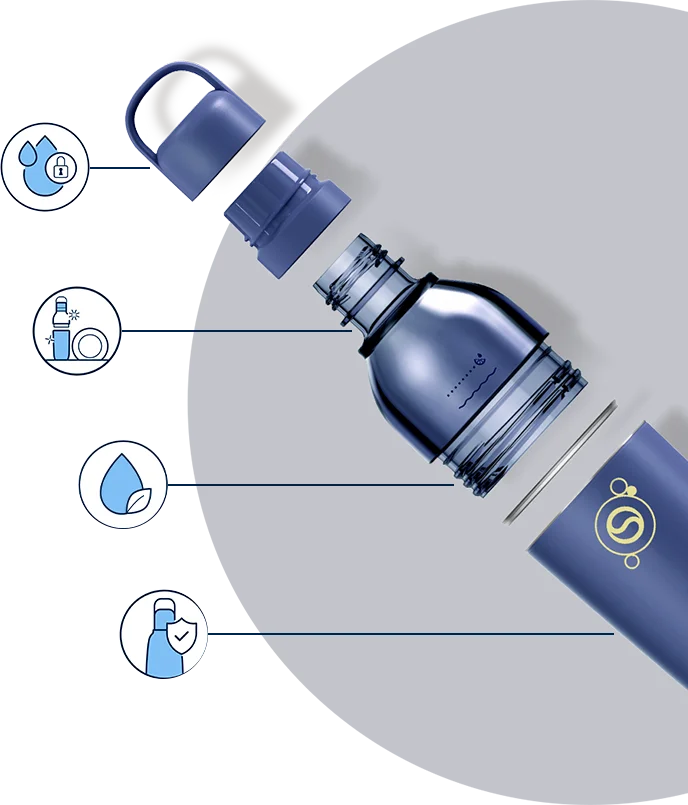
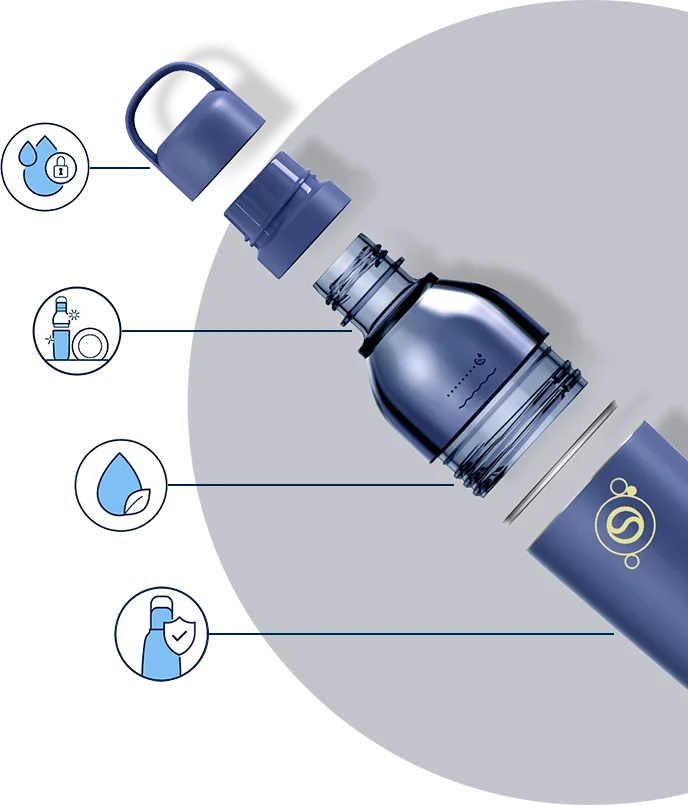
feat: modify styles and replace image

Changed region(s): [[0.1526, 0.7143, 0.3052, 0.8696], [0.0916, 0.528, 0.2442, 0.6832]]

diff --git a/index.html b/index.html
@@ -19,7 +19,7 @@
 							710 ml
 						</p>
 						<p class="es-kv__title-circle es-kv__title-circle--mobile">idealnie schłodzone
-							napoje nawet do <span>6H</span>
+							napoje nawet do <span>6h</span>
 						</p>
 					</div>
 				</div>
@@ -28,7 +28,7 @@
 
 			<div class="es-kv__packshot">
 				<p class="es-kv__title-circle es-kv__title-circle--desktop">idealnie schłodzone
-					napoje nawet do <span>6H</span>
+					napoje nawet do <span>6h</span>
 				</p>
 				<img src="//f00.esfr.pl/si_upload/blank_gif/blank.gif"
 						 class="es-kv__packshot__img es-kv__packshot__img--desktop lazy"

diff --git a/css/style.css b/css/style.css
@@ -1,1 +1,1 @@
-#es-rc #es-rc-content,#es-rc #es-rc-content *{font-family:HurmeGeometricSans3,sans-serif!important}@font-face{font-family:HurmeGeometricSans3;src:local("HurmeGeometricSans3"),url("../fonts/HurmeGeometricSans3-Bold.woff") format("woff");font-weight:700}@font-face{font-family:HurmeGeometricSans3;src:local("HurmeGeometricSans3"),url("../fonts/HurmeGeometricSans3-Regular.woff") format("woff");font-weight:400}@font-face{font-family:HurmeGeometricSans3;src:local("HurmeGeometricSans3"),url("../fonts/HurmeGeometricSans3-Black.woff") format("woff");font-weight:900}@font-face{font-family:HurmeGeometricSans3;src:local("HurmeGeometricSans3"),url("../fonts/HurmeGeometricSans3-Light.woff2") format("woff2");font-weight:300}#es-rc #es-rc-content{font-weight:400;font-size:20px;line-height:1.2;color:#012349;background-color:#faf8f8;max-width:920px;margin:auto;container:es-rc-content/inline-size;overflow:hidden;font-variant-ligatures:none}#es-rc #es-rc-content ::-moz-selection{background-color:#012349;color:#faf8f8}#es-rc #es-rc-content ::selection{background-color:#012349;color:#faf8f8}#es-rc #es-rc-content *{box-sizing:border-box}#es-rc #es-rc-content p{margin:0}#es-rc #es-rc-content img{width:100%;display:block;margin:0 auto}#es-rc #es-rc-content button{display:block}#es-rc #es-rc-content .es-kv__top,#es-rc #es-rc-content .es-section{padding:32px}#es-rc #es-rc-content .es-tm{display:inline-block;font-size:15px;vertical-align:top;margin-top:5px;top:revert;line-height:revert}#es-rc #es-rc-content .es-tm-headline{display:inline-block;font-size:18px;vertical-align:top;margin-top:5px}@container es-rc-content (min-width:800px){#es-rc #es-rc-content .es-tm-headline{font-size:32px}}#es-rc #es-rc-content .es-section-title{font-weight:700;font-size:32px;text-align:center;margin-block:16px;text-transform:uppercase}#es-rc #es-rc-content .es-footer .es-section-title,#es-rc #es-rc-content .es-footer__hashtag--last{text-transform:none}#es-rc #es-rc-content .es-desktop,#es-rc #es-rc-content .es-kv__packshot{position:relative}#es-rc #es-rc-content .es-kv{display:flex;flex-direction:column;gap:24px;background-color:#faf8f8;padding:0;overflow:hidden;position:relative}#es-rc #es-rc-content .es-kv__logo{max-width:300px;margin-bottom:10px}#es-rc #es-rc-content .es-kv__title{text-align:center}#es-rc #es-rc-content .es-kv__title--headline{margin-bottom:10px;margin-top:25px;font-weight:700;font-size:30px}#es-rc #es-rc-content .es-kv__title--headline span{display:block;color:#f6c641}#es-rc #es-rc-content .es-kv__title--bottomline{margin-bottom:25px;font-weight:700;font-size:15px}#es-rc #es-rc-content .es-kv__title-circle{display:flex;justify-content:center;align-items:center;flex-direction:column;padding:20px;margin:0 auto;color:#012349;background:#f6c641;font-size:15px;font-weight:500;border-radius:50%;width:180px;height:180px;text-align:center}#es-rc #es-rc-content .es-kv__packshot__img--desktop,#es-rc #es-rc-content .es-kv__title-circle--desktop{display:none}#es-rc #es-rc-content .es-kv__title-circle span{display:block;font-weight:700;font-size:38px}#es-rc #es-rc-content .es-kv__description-title{margin-bottom:15px;font-weight:700;text-align:center;font-size:25px}#es-rc #es-rc-content .es-kv__packshot__img{max-width:400px}#es-rc #es-rc-content .es-kv__description{margin-block-start:30px;margin-block-end:30px}#es-rc #es-rc-content .es-kv__description__text{display:block;max-width:95%;margin:0 auto;font-size:15px;text-align:center}@container es-rc-content (min-width:440px){#es-rc #es-rc-content .es-kv__title--bottomline{font-size:18px}}@container es-rc-content (min-width:550px){#es-rc #es-rc-content .es-kv__title--headline{font-size:45px}#es-rc #es-rc-content .es-kv__title--bottomline{font-size:18px}#es-rc #es-rc-content .es-kv__description__text{font-size:15px;text-align:center}}@container es-rc-content (min-width:768px){#es-rc #es-rc-content .es-kv__top{padding-bottom:70px}#es-rc #es-rc-content .es-kv__packshot{position:relative}#es-rc #es-rc-content .es-kv__packshot__img{max-height:600px}}@container es-rc-content (min-width:880px){#es-rc #es-rc-content .es-kv__logo{max-width:250px;margin-bottom:16px}#es-rc #es-rc-content .es-kv__title--headline{margin-bottom:10px}#es-rc #es-rc-content .es-kv__title--bottomline{font-size:18px}#es-rc #es-rc-content .es-kv__packshot{margin-right:0}#es-rc #es-rc-content .es-kv__packshot__img{max-height:650px}#es-rc #es-rc-content .es-kv__description__text{font-size:15px;text-align:center}}#es-rc #es-rc-content .es-design{padding:30px 15px 0;background:#faf8f8;position:relative;z-index:0}#es-rc #es-rc-content .es-design__title{margin-bottom:15px;font-size:25px;font-weight:700;text-align:center}#es-rc #es-rc-content .es-design__subtitle{display:block;margin:0 auto 25px;text-align:center;font-size:15px}#es-rc #es-rc-content .es-design__container{margin-top:-1px;background:#faf8f8;display:flex;flex-direction:column;align-items:center;gap:30px}#es-rc #es-rc-content .es-design__container--desktop{display:none}#es-rc #es-rc-content .es-design__single{display:flex;flex-direction:column;align-items:center;justify-content:flex-start;gap:10px;max-width:300px}#es-rc #es-rc-content .es-design__single-img{max-width:125px;width:auto}#es-rc #es-rc-content .es-design__single-subtitle{font-weight:700;text-align:center;font-size:15px}#es-rc #es-rc-content .es-comfort__left,#es-rc #es-rc-content .es-design__description-img,#es-rc #es-rc-content .es-easy-mix__img{margin-bottom:25px}#es-rc #es-rc-content .es-design__description-img--desktop{display:none}#es-rc #es-rc-content .es-design__new{padding-top:50px}#es-rc #es-rc-content .es-design__new-title,#es-rc #es-rc-content .es-eco__bottom-title{margin-bottom:20px;font-size:20px;font-weight:700;text-align:center}#es-rc #es-rc-content .es-design__new-description{margin-bottom:25px;font-size:15px;text-align:center}#es-rc #es-rc-content .es-slider .swiper-button-next:after,#es-rc #es-rc-content .es-slider .swiper-button-prev:after,#es-rc #es-rc-content .es-slider .swiper-rtl .swiper-button-next:after{content:""}#es-rc #es-rc-content .es-slider .swiper-button-next,#es-rc #es-rc-content .es-slider .swiper-button-prev{width:unset;height:unset;position:static;justify-content:unset;display:unset}#es-rc #es-rc-content .es-slider{margin-block:32px;margin-bottom:0;margin-top:0}#es-rc #es-rc-content .es-slider .es-swiper{position:relative;width:100%}#es-rc #es-rc-content .es-slider .es-swiper-wrapper{display:flex;transition:transform .5s}#es-rc #es-rc-content .es-slider__slide{flex:0 0 100%;box-sizing:border-box;display:flex;flex-direction:column;align-items:center;justify-content:center;gap:24px;padding:32px}#es-rc #es-rc-content .es-slider__slide--1{color:#012349;z-index:0}#es-rc #es-rc-content .es-steps{text-align:center;display:flex;flex-direction:column;gap:32px;background:linear-gradient(180deg,#faf8f8 35%,#[phone redacted]%)}#es-rc #es-rc-content .es-steps__title{font-weight:700;font-size:25px;text-align:center;color:#012349;background-color:#faf8f8}#es-rc #es-rc-content .es-steps__steps__item__text{font-weight:600;font-size:15px;text-align:center}#es-rc #es-rc-content .es-steps__steps__container ::-moz-selection{color:#012349}#es-rc #es-rc-content .es-steps__steps__container ::selection{color:#012349}#es-rc #es-rc-content .es-steps__steps__title{font-weight:900;font-size:32px}#es-rc #es-rc-content .es-steps__steps__wrapper{display:flex;flex-direction:column;gap:24px;align-items:center}#es-rc #es-rc-content .es-steps__steps__item{display:flex;flex-direction:column;gap:8px;max-width:200px}#es-rc #es-rc-content .es-steps__steps__item__image{margin-bottom:10px;max-width:220px}@container es-rc-content (min-width:660px){#es-rc #es-rc-content .es-section-title{font-size:48px}#es-rc #es-rc-content .es-desktop{display:block}#es-rc #es-rc-content .es-slider__slide{gap:48px;font-size:24px}#es-rc #es-rc-content .es-steps{background:linear-gradient(180deg,#faf8f8 50%,#[phone redacted]%)}#es-rc #es-rc-content .es-steps__steps__title{font-size:34px}#es-rc #es-rc-content .es-steps__steps__wrapper{margin-bottom:30px;flex-direction:row;align-items:start;justify-content:space-evenly;-moz-column-gap:40px;column-gap:40px}#es-rc #es-rc-content .es-steps__steps__item{max-width:150px}}#es-rc #es-rc-content .es-easy-mix{padding:0 15px}#es-rc #es-rc-content .es-easy-mix__title{margin-bottom:30px;font-size:20px;font-weight:700;text-align:center}#es-rc #es-rc-content .es-easy-mix__description{font-size:15px;text-align:left}#es-rc #es-rc-content .es-comfort,#es-rc #es-rc-content .es-eco{padding:30px 15px}#es-rc #es-rc-content .es-comfort__left-title{margin-bottom:10px;font-size:20px;font-weight:700;text-align:center}#es-rc #es-rc-content .es-comfort__left-subtitle{font-size:15px;text-align:center;margin-bottom:25px}#es-rc #es-rc-content .es-comfort__left-description{font-size:15px}#es-rc #es-rc-content .es-colors{color:#fff;background-color:#002349;position:relative;padding:30px}#es-rc #es-rc-content .es-colors__container{padding-top:25px;display:flex;justify-content:center;align-items:center;-moz-column-gap:20px;column-gap:20px;z-index:3;position:relative}#es-rc #es-rc-content .es-colors__title{margin-bottom:25px;font-size:25px;font-weight:700;text-align:center}#es-rc #es-rc-content .es-colors__subtitle,#es-rc #es-rc-content .es-eco__subtitle{font-size:15px;text-align:center}#es-rc #es-rc-content .es-colors__wrapper{display:none;background-color:#002349;border-radius:50%;width:125%;height:40%;bottom:-10%;left:-12%;right:0;z-index:2;position:absolute}#es-rc #es-rc-content .es-style__img{max-width:60%;margin-left:10px}#es-rc #es-rc-content .es-style__left{max-width:310px;margin:0 auto}#es-rc #es-rc-content .es-style__inner{max-width:350px;margin:0 auto 20px;position:relative}#es-rc #es-rc-content .es-style__wrapper{position:absolute;top:-20px;right:-106px}#es-rc #es-rc-content .es-style__img-title-group{position:relative}#es-rc #es-rc-content .es-style__title-img{margin-bottom:25px;max-width:30%}#es-rc #es-rc-content .es-style__img-title{position:absolute;top:55%;left:53%;transform:translate(-50%,-50%);color:#012349;font-size:14px;font-weight:700;text-align:center}#es-rc #es-rc-content .es-style__img-description{max-width:85%;margin:0 auto 25px;font-size:15px;text-align:center}#es-rc #es-rc-content .es-style__img-description span{margin-bottom:10px;display:block;font-weight:700;font-size:25px}#es-rc #es-rc-content .es-cross__container{display:flex;flex-direction:column;align-items:center;justify-content:center}#es-rc #es-rc-content .es-cross__single{padding:20px;display:flex;flex-direction:column;align-items:center;justify-content:center;gap:20px}#es-rc #es-rc-content .es-cross__single--1{color:#fff;background-color:#002349}#es-rc #es-rc-content .es-cross__single--2{background-color:#f6c641}#es-rc #es-rc-content .es-cross__single--3{color:#fff;background-color:#e25d5f}#es-rc #es-rc-content .es-cross__single-description--blue,#es-rc #es-rc-content .es-cross__single-title--blue{color:#002349}#es-rc #es-rc-content .es-cross__single-title{font-weight:700;font-size:15px;text-align:center}#es-rc #es-rc-content .es-cross__single-description{font-weight:400;font-size:15px;text-align:center}#es-rc #es-rc-content .es-cross__img{max-width:70%;margin-bottom:15px;width:auto}#es-rc #es-rc-content .es-footer{position:relative;overflow:hidden;padding:30px 15px;background-position:center;min-height:400px}#es-rc #es-rc-content .es-footer__hashtag{padding-top:20px;margin-top:0;font-size:20px;color:#fff;position:relative;z-index:3}#es-rc #es-rc-content .es-footer__subtitle{font-size:15px;color:#fff;font-weight:400;position:relative;z-index:3}#es-rc #es-rc-content .es-footer__inner{margin-top:-50px}#es-rc #es-rc-content .es-footer__inner::before{content:"";position:absolute;width:140%;height:400px;background-color:#002349;border-radius:50%;bottom:-30%;left:50%;transform:translateX(-50%)}#es-rc #es-rc-content .es-footer__logo-wrapper{background-color:#002349;padding-bottom:10px}@media screen and (min-width:550px){#es-rc #es-rc-content .es-style__img{max-width:80%}#es-rc #es-rc-content .es-style__wrapper{right:-155px}}@media screen and (min-width:600px){#es-rc #es-rc-content .es-footer__inner::before{bottom:-25%}}@media screen and (min-width:768px){#es-rc #es-rc-content .es-kv{justify-content:space-between;padding:40px 0 0;overflow:hidden}#es-rc #es-rc-content .es-kv__top{display:flex;flex-direction:column;align-items:flex-start;justify-content:space-between;width:100%;padding-left:40px;padding-top:0;padding-bottom:70px}#es-rc #es-rc-content .es-kv__logo{margin:0 0 10px;max-width:215px}#es-rc #es-rc-content .es-kv__title{text-align:left;margin-top:20px}#es-rc #es-rc-content .es-kv .es-desktop{width:100%}#es-rc #es-rc-content .es-kv__description{margin-block:30px;margin-block-start:24px;width:100%}#es-rc #es-rc-content .es-kv__description__text{text-align:center}#es-rc #es-rc-content .es-kv__packshot{align-items:end;margin:0 0 0 auto}#es-rc #es-rc-content .es-kv__packshot__img{margin:0;position:relative;z-index:1;max-width:revert;max-height:675px}#es-rc #es-rc-content .es-kv{padding-bottom:135px}#es-rc #es-rc-content .es-kv__title-circle--mobile{display:none}#es-rc #es-rc-content .es-kv__title-circle--desktop{display:block;position:absolute;padding-top:30px;bottom:-9%;left:-11%;z-index:3;width:160px;height:160px;font-size:15px}#es-rc #es-rc-content .es-footer__inner::before{bottom:-25%}#es-rc #es-rc-content .es-kv__packshot{position:absolute;top:-190px;right:-30.5%}#es-rc #es-rc-content .es-kv__title-circle{position:absolute;bottom:-2.4%;right:83%;z-index:3}#es-rc #es-rc-content .es-design__container,#es-rc #es-rc-content .es-design__description-img--mobile,#es-rc #es-rc-content .es-kv__packshot__img--mobile{display:none}#es-rc #es-rc-content .es-colors__wrapper,#es-rc #es-rc-content .es-design__description-img--desktop,#es-rc #es-rc-content .es-kv__packshot__img--desktop{display:block}#es-rc #es-rc-content .es-design{background-color:#faf8f8;padding-right:0;padding-left:0}#es-rc #es-rc-content .es-design__inner{display:flex;justify-content:center;align-items:center;-moz-column-gap:10px;column-gap:10px}#es-rc #es-rc-content .es-design__title{padding-right:15px;padding-left:15px}#es-rc #es-rc-content .es-design__single-subtitle{font-size:14px;text-align:right}#es-rc #es-rc-content .es-design__single-subtitle--2{margin-right:-15px}#es-rc #es-rc-content .es-design__single-subtitle--3{margin-right:-35px}#es-rc #es-rc-content .es-design__single-subtitle--4{margin-right:-55px}#es-rc #es-rc-content .es-design__description-img{order:2;width:71%;margin-right:0}#es-rc #es-rc-content .es-design__single{flex-direction:row;max-width:230px}#es-rc #es-rc-content .es-design__single-img{order:2}#es-rc #es-rc-content .es-design__container{margin-top:20px;flex-direction:column;justify-content:space-around}#es-rc #es-rc-content .es-design__container--desktop{display:flex;row-gap:100px;padding-left:100px}#es-rc #es-rc-content .es-design__new{position:relative}#es-rc #es-rc-content .es-design__new-wrapper{position:absolute;top:40%;left:5%;transform:translate(-5%,0);width:50%}#es-rc #es-rc-content .es-design__new-description,#es-rc #es-rc-content .es-design__new-title{text-align:left}#es-rc #es-rc-content .es-style__left{display:flex;flex-flow:row;max-width:750px;margin-left:0}#es-rc #es-rc-content .es-style__inner{max-width:67%;margin-left:-125px}#es-rc #es-rc-content .es-style__img{max-width:516px;z-index:3;position:relative}#es-rc #es-rc-content .es-style__img-description{max-width:300px;margin-left:-25px;margin-bottom:125px;align-self:flex-end;text-align:left}#es-rc #es-rc-content .es-style__title-img{max-width:60%}#es-rc #es-rc-content .es-style__wrapper{top:10%;right:-51.5%}#es-rc #es-rc-content .es-style__img-title-group{margin-right:revert;margin-top:-25px}#es-rc #es-rc-content .es-style__img-title{font-size:28px}#es-rc #es-rc-content .es-eco{padding-top:0;padding-left:20px;padding-right:20px}#es-rc #es-rc-content .es-eco__bottom-title{font-weight:700;font-size:20px;text-align:center}#es-rc #es-rc-content .es-colors{margin-top:-100px;padding-top:120px}#es-rc #es-rc-content .es-slider{position:relative;z-index:0}#es-rc #es-rc-content .es-slider__slide--1{padding-bottom:0;position:relative}#es-rc #es-rc-content .es-cross__container{display:flex;flex-direction:row;justify-content:center;align-items:flex-start;gap:0}#es-rc #es-rc-content .es-cross__single-title{min-height:45px}#es-rc #es-rc-content .es-cross__single-description{min-height:235px}#es-rc #es-rc-content .es-cross__single{max-width:33.3%;padding-top:55px;padding-bottom:25px;row-gap:5px}#es-rc #es-rc-content .es-steps__steps__item__text{font-size:15px}#es-rc #es-rc-content .es-steps__steps__item{max-width:200px}#es-rc #es-rc-content .es-footer{margin-top:25px;background-image:url("../img/bottles-d.webp");background-size:cover;background-repeat:no-repeat;background-color:#faf8f8;min-height:530px}#es-rc #es-rc-content .es-footer__inner{margin-top:280px;max-width:85%;margin-left:auto;margin-right:auto}#es-rc #es-rc-content .es-footer__bottles,#es-rc #es-rc-content .es-footer__inner::before{display:none}}@media screen and (min-width:800px){#es-rc #es-rc-content .es-kv__title--headline{margin-bottom:50px;font-size:50px}#es-rc #es-rc-content .es-kv__title--bottomline{font-size:20px}#es-rc #es-rc-content .es-kv__packshot{right:-23.5%}#es-rc #es-rc-content .es-kv__title-circle{bottom:-3%;right:revert;left:-55px}}@media screen and (min-width:830px){#es-rc #es-rc-content .es-design__container--desktop{margin-top:0;row-gap:110px;padding-left:115px}}@media screen and (min-width:998px){#es-rc #es-rc-content .es-kv{position:relative;padding-bottom:70px}#es-rc #es-rc-content .es-kv__title--headline{margin-bottom:50px;font-size:60px}#es-rc #es-rc-content .es-kv__title--bottomline{font-size:23px}#es-rc #es-rc-content .es-kv__logo{max-width:290px}#es-rc #es-rc-content .es-kv__title-circle{bottom:-1.4%;left:-9.6%;right:auto;z-index:5}#es-rc #es-rc-content .es-kv__packshot{position:absolute;top:-145px;right:-14.5%}#es-rc #es-rc-content .es-kv__packshot__img{max-height:675px}#es-rc #es-rc-content .es-kv__packshot__img--mobile{display:none}#es-rc #es-rc-content .es-kv__packshot__img--desktop{display:block}#es-rc #es-rc-content .es-kv__title{text-align:left;margin-top:10px;max-width:400px}#es-rc #es-rc-content .es-cross__single-description{min-height:205px;line-height:1.5}#es-rc #es-rc-content .es-cross__single-title{min-height:20px}#es-rc #es-rc-content .es-design__container--desktop{row-gap:110px;padding-left:40px;margin-top:-20px}#es-rc #es-rc-content .es-design__single-subtitle{font-size:18px}#es-rc #es-rc-content .es-design__single-subtitle--1{max-width:230px;margin-left:60px}#es-rc #es-rc-content .es-design__single-subtitle--2{max-width:230px;margin-right:-130px}#es-rc #es-rc-content .es-design__single-subtitle--3{max-width:255px;margin-right:-200px}#es-rc #es-rc-content .es-design__single-subtitle--4{max-width:285px;margin-right:-175px}#es-rc #es-rc-content .es-comfort__left-title,#es-rc #es-rc-content .es-design__title,#es-rc #es-rc-content .es-easy-mix__title,#es-rc #es-rc-content .es-eco__bottom-title,#es-rc #es-rc-content .es-footer__hashtag,#es-rc #es-rc-content .es-kv__description-title,#es-rc #es-rc-content .es-steps__title{font-size:27px}#es-rc #es-rc-content .es-eco__subtitle{margin-bottom:5px}#es-rc #es-rc-content .es-steps__steps__item{max-width:255px}#es-rc #es-rc-content .es-easy-mix{padding-left:0}#es-rc #es-rc-content .es-easy-mix__container{display:flex;-moz-column-gap:50px;column-gap:50px}#es-rc #es-rc-content .es-easy-mix__description{text-align:left}#es-rc #es-rc-content .es-comfort__left,#es-rc #es-rc-content .es-easy-mix__right{width:47%}#es-rc #es-rc-content .es-comfort__right,#es-rc #es-rc-content .es-easy-mix__left{width:53%}#es-rc #es-rc-content .es-comfort{padding-top:0;padding-right:0}#es-rc #es-rc-content .es-comfort__container{display:flex;-moz-column-gap:50px;column-gap:50px;align-items:center}#es-rc #es-rc-content .es-footer{min-height:500px;background-position:top;margin-top:50px}#es-rc #es-rc-content .es-footer__inner{margin-top:270px;max-width:100%}#es-rc #es-rc-content .es-footer__hashtag{font-size:32px}#es-rc #es-rc-content .es-footer__subtitle{padding-top:30px;max-width:90%;margin:0 auto}#es-rc #es-rc-content .es-style__inner{max-width:67%}#es-rc #es-rc-content .es-style__left{max-width:revert}#es-rc #es-rc-content .es-style__img{z-index:3;position:relative;min-width:100%;max-width:100%}#es-rc #es-rc-content .es-style__img-title{top:54%;left:56%;font-size:32px}#es-rc #es-rc-content .es-style__title-img{max-width:75%}#es-rc #es-rc-content .es-style__img-description span{font-size:30px}#es-rc #es-rc-content .es-style__wrapper{right:-42.5%}#es-rc #es-rc-content .es-style__img-title-group{margin-right:-12px}#es-rc #es-rc-content .es-style__img-description{margin-bottom:120px;margin-left:-5px;font-size:18px;max-width:375px}#es-rc #es-rc-content .es-colors{margin-top:-85px;padding-top:70px}#es-rc #es-rc-content .es-colors__title{font-size:29px}#es-rc #es-rc-content .es-design__new-wrapper{top:30%;left:8%}#es-rc #es-rc-content .es-design__new-title{font-size:28px}#es-rc #es-rc-content .es-design__new-description{max-width:420px}#es-rc #es-rc-content .es-steps__steps__item__text{font-size:18px}}
+#es-rc #es-rc-content,#es-rc #es-rc-content *{font-family:HurmeGeometricSans3,sans-serif!important}@font-face{font-family:HurmeGeometricSans3;src:local('HurmeGeometricSans3'),url('../fonts/HurmeGeometricSans3-Bold.woff') format('woff');font-weight:700}@font-face{font-family:HurmeGeometricSans3;src:local('HurmeGeometricSans3'),url('../fonts/HurmeGeometricSans3-Regular.woff') format('woff');font-weight:400}@font-face{font-family:HurmeGeometricSans3;src:local('HurmeGeometricSans3'),url('../fonts/HurmeGeometricSans3-Black.woff') format('woff');font-weight:900}@font-face{font-family:HurmeGeometricSans3;src:local('HurmeGeometricSans3'),url('../fonts/HurmeGeometricSans3-Light.woff2') format('woff2');font-weight:300}#es-rc #es-rc-content{font-weight:400;font-size:20px;line-height:1.2;color:#012349;background-color:#faf8f8;max-width:920px;margin:auto;container:es-rc-content/inline-size;overflow:hidden;font-variant-ligatures:none}#es-rc #es-rc-content ::-moz-selection{background-color:#012349;color:#faf8f8}#es-rc #es-rc-content ::selection{background-color:#012349;color:#faf8f8}#es-rc #es-rc-content *{box-sizing:border-box}#es-rc #es-rc-content p{margin:0}#es-rc #es-rc-content img{width:100%;display:block;margin:0 auto}#es-rc #es-rc-content button{display:block}#es-rc #es-rc-content .es-kv__top,#es-rc #es-rc-content .es-section{padding:32px}#es-rc #es-rc-content .es-tm{display:inline-block;font-size:15px;vertical-align:top;margin-top:5px;top:revert;line-height:revert}#es-rc #es-rc-content .es-tm-headline{display:inline-block;font-size:18px;vertical-align:top;margin-top:5px}@container es-rc-content (min-width:800px){#es-rc #es-rc-content .es-tm-headline{font-size:32px}}#es-rc #es-rc-content .es-section-title{font-weight:700;font-size:32px;text-align:center;margin-block:16px;text-transform:uppercase}#es-rc #es-rc-content .es-footer .es-section-title,#es-rc #es-rc-content .es-footer__hashtag--last{text-transform:none}#es-rc #es-rc-content .es-desktop,#es-rc #es-rc-content .es-kv__packshot{position:relative}#es-rc #es-rc-content .es-kv{display:flex;flex-direction:column;gap:24px;background-color:#faf8f8;padding:0;overflow:hidden;position:relative}#es-rc #es-rc-content .es-kv__logo{max-width:300px;margin-bottom:10px}#es-rc #es-rc-content .es-kv__title{text-align:center}#es-rc #es-rc-content .es-kv__title--headline{margin-bottom:10px;margin-top:25px;font-weight:700;font-size:30px}#es-rc #es-rc-content .es-kv__title--headline span{display:block;color:#f6c641}#es-rc #es-rc-content .es-kv__title--bottomline{margin-bottom:25px;font-weight:700;font-size:15px}#es-rc #es-rc-content .es-kv__title-circle{display:flex;justify-content:center;align-items:center;flex-direction:column;padding:20px;margin:0 auto;color:#012349;background:#f6c641;font-size:15px;font-weight:500;border-radius:50%;width:180px;height:180px;text-align:center}#es-rc #es-rc-content .es-kv__packshot__img--desktop,#es-rc #es-rc-content .es-kv__title-circle--desktop{display:none}#es-rc #es-rc-content .es-kv__title-circle span{display:block;font-weight:700;font-size:38px}#es-rc #es-rc-content .es-kv__description-title{margin-bottom:15px;font-weight:700;text-align:center;font-size:25px}#es-rc #es-rc-content .es-kv__packshot__img{max-width:400px}#es-rc #es-rc-content .es-kv__description{margin-block-start:30px;margin-block-end:30px}#es-rc #es-rc-content .es-kv__description__text{display:block;max-width:95%;margin:0 auto;font-size:15px;text-align:center}@container es-rc-content (min-width:440px){#es-rc #es-rc-content .es-kv__title--bottomline{font-size:18px}}@container es-rc-content (min-width:550px){#es-rc #es-rc-content .es-kv__title--headline{font-size:45px}#es-rc #es-rc-content .es-kv__title--bottomline{font-size:18px}#es-rc #es-rc-content .es-kv__description__text{font-size:15px;text-align:center}}@container es-rc-content (min-width:768px){#es-rc #es-rc-content .es-kv__top{padding-bottom:70px}#es-rc #es-rc-content .es-kv__packshot{position:relative}#es-rc #es-rc-content .es-kv__packshot__img{max-height:600px}}@container es-rc-content (min-width:880px){#es-rc #es-rc-content .es-kv__logo{max-width:250px;margin-bottom:16px}#es-rc #es-rc-content .es-kv__title--headline{margin-bottom:10px}#es-rc #es-rc-content .es-kv__title--bottomline{font-size:18px}#es-rc #es-rc-content .es-kv__packshot{margin-right:0}#es-rc #es-rc-content .es-kv__packshot__img{max-height:650px}#es-rc #es-rc-content .es-kv__description__text{font-size:15px;text-align:center}}#es-rc #es-rc-content .es-design{padding:30px 15px 0;background:#faf8f8;position:relative;z-index:0}#es-rc #es-rc-content .es-design__title{margin-bottom:15px;font-size:25px;font-weight:700;text-align:center}#es-rc #es-rc-content .es-design__subtitle{display:block;margin:0 auto 25px;text-align:center;font-size:15px}#es-rc #es-rc-content .es-design__container{margin-top:-1px;background:#faf8f8;display:flex;flex-direction:column;align-items:center;gap:30px}#es-rc #es-rc-content .es-design__container--desktop{display:none}#es-rc #es-rc-content .es-design__single{display:flex;flex-direction:column;align-items:center;justify-content:flex-start;gap:10px;max-width:300px}#es-rc #es-rc-content .es-design__single-img{max-width:125px;width:auto}#es-rc #es-rc-content .es-design__single-subtitle{font-weight:700;text-align:center;font-size:15px}#es-rc #es-rc-content .es-comfort__left,#es-rc #es-rc-content .es-design__description-img,#es-rc #es-rc-content .es-easy-mix__img{margin-bottom:25px}#es-rc #es-rc-content .es-design__description-img--desktop{display:none}#es-rc #es-rc-content .es-design__new{padding-top:50px}#es-rc #es-rc-content .es-design__new-title,#es-rc #es-rc-content .es-eco__bottom-title{margin-bottom:20px;font-size:20px;font-weight:700;text-align:center}#es-rc #es-rc-content .es-design__new-description{margin-bottom:25px;font-size:15px;text-align:center}#es-rc #es-rc-content .es-slider .swiper-button-next:after,#es-rc #es-rc-content .es-slider .swiper-button-prev:after,#es-rc #es-rc-content .es-slider .swiper-rtl .swiper-button-next:after{content:''}#es-rc #es-rc-content .es-slider .swiper-button-next,#es-rc #es-rc-content .es-slider .swiper-button-prev{width:unset;height:unset;position:static;justify-content:unset;display:unset}#es-rc #es-rc-content .es-slider{margin-block:32px;margin-bottom:0;margin-top:0}#es-rc #es-rc-content .es-slider .es-swiper{position:relative;width:100%}#es-rc #es-rc-content .es-slider .es-swiper-wrapper{display:flex;transition:transform .5s}#es-rc #es-rc-content .es-slider__slide{flex:0 0 100%;box-sizing:border-box;display:flex;flex-direction:column;align-items:center;justify-content:center;gap:24px;padding:32px}#es-rc #es-rc-content .es-slider__slide--1{color:#012349;z-index:0}#es-rc #es-rc-content .es-steps{text-align:center;display:flex;flex-direction:column;gap:32px;background:linear-gradient(180deg,#faf8f8 35%,#[phone redacted]%)}#es-rc #es-rc-content .es-steps__title{font-weight:700;font-size:25px;text-align:center;color:#012349;background-color:#faf8f8}#es-rc #es-rc-content .es-steps__steps__item__text{font-weight:600;font-size:15px;text-align:center}#es-rc #es-rc-content .es-steps__steps__container ::-moz-selection{color:#012349}#es-rc #es-rc-content .es-steps__steps__container ::selection{color:#012349}#es-rc #es-rc-content .es-steps__steps__title{font-weight:900;font-size:32px}#es-rc #es-rc-content .es-steps__steps__wrapper{display:flex;flex-direction:column;gap:24px;align-items:center}#es-rc #es-rc-content .es-steps__steps__item{display:flex;flex-direction:column;gap:8px;max-width:200px}#es-rc #es-rc-content .es-steps__steps__item__image{margin-bottom:10px;max-width:220px}@container es-rc-content (min-width:660px){#es-rc #es-rc-content .es-section-title{font-size:48px}#es-rc #es-rc-content .es-desktop{display:block}#es-rc #es-rc-content .es-slider__slide{gap:48px;font-size:24px}#es-rc #es-rc-content .es-steps{background:linear-gradient(180deg,#faf8f8 50%,#[phone redacted]%)}#es-rc #es-rc-content .es-steps__steps__title{font-size:34px}#es-rc #es-rc-content .es-steps__steps__wrapper{margin-bottom:30px;flex-direction:row;align-items:start;justify-content:space-evenly;-moz-column-gap:40px;column-gap:40px}#es-rc #es-rc-content .es-steps__steps__item{max-width:150px}}#es-rc #es-rc-content .es-easy-mix{padding:0 15px}#es-rc #es-rc-content .es-easy-mix__title{margin-bottom:30px;font-size:20px;font-weight:700;text-align:center}#es-rc #es-rc-content .es-easy-mix__description{font-size:15px;text-align:left}#es-rc #es-rc-content .es-comfort,#es-rc #es-rc-content .es-eco{padding:30px 15px}#es-rc #es-rc-content .es-comfort__left-title{margin-bottom:10px;font-size:20px;font-weight:700;text-align:center}#es-rc #es-rc-content .es-comfort__left-subtitle{font-size:15px;text-align:center;margin-bottom:25px}#es-rc #es-rc-content .es-comfort__left-description{font-size:15px}#es-rc #es-rc-content .es-colors{color:#fff;background-color:#002349;position:relative;padding:30px}#es-rc #es-rc-content .es-colors__container{padding-top:25px;display:flex;justify-content:center;align-items:center;-moz-column-gap:20px;column-gap:20px;z-index:3;position:relative}#es-rc #es-rc-content .es-colors__title{margin-bottom:25px;font-size:25px;font-weight:700;text-align:center}#es-rc #es-rc-content .es-colors__subtitle,#es-rc #es-rc-content .es-eco__subtitle{font-size:15px;text-align:center}#es-rc #es-rc-content .es-colors__wrapper{display:none;background-color:#002349;border-radius:50%;width:125%;height:40%;bottom:-10%;left:-12%;right:0;z-index:2;position:absolute}#es-rc #es-rc-content .es-style__img{max-width:60%;margin-left:10px}#es-rc #es-rc-content .es-style__left{max-width:310px;margin:0 auto}#es-rc #es-rc-content .es-style__inner{max-width:350px;margin:0 auto 20px;position:relative}#es-rc #es-rc-content .es-style__wrapper{position:absolute;top:-20px;right:-106px}#es-rc #es-rc-content .es-style__img-title-group{position:relative}#es-rc #es-rc-content .es-style__title-img{margin-bottom:25px;max-width:30%}#es-rc #es-rc-content .es-style__img-title{position:absolute;top:55%;left:53%;transform:translate(-50%,-50%);color:#012349;font-size:14px;font-weight:700;text-align:center}#es-rc #es-rc-content .es-style__img-description{max-width:85%;margin:0 auto 25px;font-size:15px;text-align:center}#es-rc #es-rc-content .es-style__img-description span{margin-bottom:10px;display:block;font-weight:700;font-size:25px}#es-rc #es-rc-content .es-cross__container{display:flex;flex-direction:column;align-items:center;justify-content:center}#es-rc #es-rc-content .es-cross__single{padding:20px;display:flex;flex-direction:column;align-items:center;justify-content:center;gap:20px}#es-rc #es-rc-content .es-cross__single--1{color:#fff;background-color:#002349}#es-rc #es-rc-content .es-cross__single--2{background-color:#f6c641}#es-rc #es-rc-content .es-cross__single--3{color:#fff;background-color:#e25d5f}#es-rc #es-rc-content .es-cross__single-description--blue,#es-rc #es-rc-content .es-cross__single-title--blue{color:#002349}#es-rc #es-rc-content .es-cross__single-title{font-weight:700;font-size:15px;text-align:center}#es-rc #es-rc-content .es-cross__single-description{font-weight:400;font-size:15px;text-align:center}#es-rc #es-rc-content .es-cross__img{max-width:70%;margin-bottom:15px;width:auto}#es-rc #es-rc-content .es-footer{position:relative;overflow:hidden;padding:30px 15px;background-position:center;min-height:400px}#es-rc #es-rc-content .es-footer__hashtag{padding-top:20px;margin-top:0;font-size:20px;color:#fff;position:relative;z-index:3}#es-rc #es-rc-content .es-footer__subtitle{font-size:15px;color:#fff;font-weight:400;position:relative;z-index:3}#es-rc #es-rc-content .es-footer__inner{margin-top:-50px}#es-rc #es-rc-content .es-footer__inner::before{content:'';position:absolute;width:140%;height:400px;background-color:#002349;border-radius:50%;bottom:-30%;left:50%;transform:translateX(-50%)}#es-rc #es-rc-content .es-footer__logo-wrapper{background-color:#002349;padding-bottom:10px}@media screen and (min-width:550px){#es-rc #es-rc-content .es-style__img{max-width:80%}#es-rc #es-rc-content .es-style__wrapper{right:-155px}}@media screen and (min-width:600px){#es-rc #es-rc-content .es-footer__inner::before{bottom:-25%}}@media screen and (min-width:768px){#es-rc #es-rc-content .es-kv{justify-content:space-between;padding:40px 0 0;overflow:hidden}#es-rc #es-rc-content .es-kv__top{display:flex;flex-direction:column;align-items:flex-start;justify-content:space-between;width:100%;padding-left:40px;padding-top:0;padding-bottom:70px}#es-rc #es-rc-content .es-kv__logo{margin:0 0 10px;max-width:215px}#es-rc #es-rc-content .es-kv__title{text-align:left;margin-top:20px}#es-rc #es-rc-content .es-kv .es-desktop{width:100%}#es-rc #es-rc-content .es-kv__description{margin-block:30px;margin-block-start:24px;width:100%}#es-rc #es-rc-content .es-kv__description__text{text-align:center}#es-rc #es-rc-content .es-kv__packshot{align-items:end;margin:0 0 0 auto}#es-rc #es-rc-content .es-kv__packshot__img{margin:0;position:relative;z-index:1;max-width:revert;max-height:675px}#es-rc #es-rc-content .es-kv{padding-bottom:135px}#es-rc #es-rc-content .es-kv__title-circle--mobile{display:none}#es-rc #es-rc-content .es-kv__title-circle--desktop{display:block;position:absolute;padding-top:30px;bottom:-9%;left:-11%;z-index:3;width:160px;height:160px;font-size:15px}#es-rc #es-rc-content .es-footer__inner::before{bottom:-25%}#es-rc #es-rc-content .es-kv__packshot{position:absolute;top:-190px;right:-30.5%}#es-rc #es-rc-content .es-kv__title-circle{position:absolute;bottom:-2.4%;right:83%;z-index:3}#es-rc #es-rc-content .es-design__container,#es-rc #es-rc-content .es-design__description-img--mobile,#es-rc #es-rc-content .es-kv__packshot__img--mobile{display:none}#es-rc #es-rc-content .es-colors__wrapper,#es-rc #es-rc-content .es-design__description-img--desktop,#es-rc #es-rc-content .es-kv__packshot__img--desktop{display:block}#es-rc #es-rc-content .es-design{background-color:#faf8f8;padding-right:0;padding-left:0}#es-rc #es-rc-content .es-design__inner{display:flex;justify-content:center;align-items:center;-moz-column-gap:10px;column-gap:10px}#es-rc #es-rc-content .es-design__title{padding-right:15px;padding-left:15px}#es-rc #es-rc-content .es-design__single-subtitle{font-size:14px;text-align:right}#es-rc #es-rc-content .es-design__single-subtitle--2{margin-right:-15px}#es-rc #es-rc-content .es-design__single-subtitle--3{margin-right:-35px}#es-rc #es-rc-content .es-design__single-subtitle--4{margin-right:-55px}#es-rc #es-rc-content .es-design__description-img{order:2;width:71%;margin-right:0}#es-rc #es-rc-content .es-design__single{flex-direction:row;max-width:230px}#es-rc #es-rc-content .es-design__single-img{order:2}#es-rc #es-rc-content .es-design__container{margin-top:20px;flex-direction:column;justify-content:space-around}#es-rc #es-rc-content .es-design__container--desktop{display:flex;row-gap:100px;padding-left:100px}#es-rc #es-rc-content .es-design__new{position:relative}#es-rc #es-rc-content .es-design__new-wrapper{position:absolute;top:40%;left:5%;transform:translate(-5%,0);width:50%}#es-rc #es-rc-content .es-design__new-description,#es-rc #es-rc-content .es-design__new-title{text-align:left}#es-rc #es-rc-content .es-style__left{display:flex;flex-flow:row;max-width:750px;margin-left:0}#es-rc #es-rc-content .es-style__inner{max-width:67%;margin-left:-125px}#es-rc #es-rc-content .es-style__img{max-width:516px;z-index:3;position:relative}#es-rc #es-rc-content .es-style__img-description{max-width:300px;margin-left:-25px;margin-bottom:125px;align-self:flex-end;text-align:left}#es-rc #es-rc-content .es-style__title-img{max-width:60%}#es-rc #es-rc-content .es-style__wrapper{top:10%;right:-51.5%}#es-rc #es-rc-content .es-style__img-title-group{margin-right:revert;margin-top:-25px}#es-rc #es-rc-content .es-style__img-title{font-size:28px}#es-rc #es-rc-content .es-eco{padding-top:0;padding-left:20px;padding-right:20px}#es-rc #es-rc-content .es-eco__bottom-title{font-weight:700;font-size:20px;text-align:center}#es-rc #es-rc-content .es-colors{margin-top:-100px;padding-top:120px}#es-rc #es-rc-content .es-slider{position:relative;z-index:0}#es-rc #es-rc-content .es-slider__slide--1{padding-bottom:0;position:relative}#es-rc #es-rc-content .es-cross__container{display:flex;flex-direction:row;justify-content:center;align-items:flex-start;gap:0}#es-rc #es-rc-content .es-cross__single-title{min-height:45px}#es-rc #es-rc-content .es-cross__single-description{min-height:235px}#es-rc #es-rc-content .es-cross__single{max-width:33.3%;padding-top:55px;padding-bottom:25px;row-gap:5px}#es-rc #es-rc-content .es-steps__steps__item__text{font-size:15px}#es-rc #es-rc-content .es-steps__steps__item{max-width:200px}#es-rc #es-rc-content .es-footer{margin-top:25px;background-image:url('../img/bottles-d.webp');background-size:cover;background-repeat:no-repeat;background-color:#faf8f8;min-height:530px}#es-rc #es-rc-content .es-footer__inner{margin-top:280px;max-width:85%;margin-left:auto;margin-right:auto}#es-rc #es-rc-content .es-footer__bottles,#es-rc #es-rc-content .es-footer__inner::before{display:none}}@media screen and (min-width:800px){#es-rc #es-rc-content .es-kv__title--headline{margin-bottom:50px;font-size:50px}#es-rc #es-rc-content .es-kv__title--bottomline{font-size:20px}#es-rc #es-rc-content .es-kv__packshot{right:-23.5%}#es-rc #es-rc-content .es-kv__title-circle{bottom:-3%;right:revert;left:-55px}}@media screen and (min-width:830px){#es-rc #es-rc-content .es-design__container--desktop{margin-top:0;row-gap:110px;padding-left:115px}}@media screen and (min-width:998px){#es-rc #es-rc-content .es-kv{position:relative;padding-bottom:70px}#es-rc #es-rc-content .es-kv__title--headline{margin-bottom:50px;font-size:60px}#es-rc #es-rc-content .es-kv__title--bottomline{font-size:23px}#es-rc #es-rc-content .es-kv__logo{max-width:290px}#es-rc #es-rc-content .es-kv__title-circle{bottom:-1.4%;left:-9.6%;right:auto;z-index:5}#es-rc #es-rc-content .es-kv__packshot{position:absolute;top:-145px;right:-14.5%}#es-rc #es-rc-content .es-kv__packshot__img{max-height:675px}#es-rc #es-rc-content .es-kv__packshot__img--mobile{display:none}#es-rc #es-rc-content .es-kv__packshot__img--desktop{display:block}#es-rc #es-rc-content .es-kv__title{text-align:left;margin-top:10px;max-width:400px}#es-rc #es-rc-content .es-cross__single-description{min-height:205px;line-height:1.5}#es-rc #es-rc-content .es-cross__single-title{min-height:20px}#es-rc #es-rc-content .es-design__container--desktop{row-gap:110px;padding-left:40px;margin-top:-20px}#es-rc #es-rc-content .es-design__single-subtitle{font-size:18px}#es-rc #es-rc-content .es-design__single-subtitle--1{max-width:230px;margin-left:60px}#es-rc #es-rc-content .es-design__single-subtitle--2{max-width:230px;margin-right:-130px}#es-rc #es-rc-content .es-design__single-subtitle--3{max-width:255px;margin-right:-200px}#es-rc #es-rc-content .es-design__single-subtitle--4{max-width:285px;margin-right:-175px}#es-rc #es-rc-content .es-comfort__left-title,#es-rc #es-rc-content .es-design__title,#es-rc #es-rc-content .es-easy-mix__title,#es-rc #es-rc-content .es-eco__bottom-title,#es-rc #es-rc-content .es-footer__hashtag,#es-rc #es-rc-content .es-kv__description-title,#es-rc #es-rc-content .es-steps__title{font-size:27px}#es-rc #es-rc-content .es-eco__subtitle{margin-bottom:5px}#es-rc #es-rc-content .es-steps__steps__item{max-width:255px}#es-rc #es-rc-content .es-easy-mix{padding-left:0}#es-rc #es-rc-content .es-easy-mix__container{display:flex;-moz-column-gap:50px;column-gap:50px}#es-rc #es-rc-content .es-easy-mix__description{text-align:left}#es-rc #es-rc-content .es-comfort__left,#es-rc #es-rc-content .es-easy-mix__right{width:47%}#es-rc #es-rc-content .es-comfort__right,#es-rc #es-rc-content .es-easy-mix__left{width:53%}#es-rc #es-rc-content .es-comfort{padding-top:0;padding-right:0}#es-rc #es-rc-content .es-comfort__container{display:flex;-moz-column-gap:50px;column-gap:50px;align-items:center}#es-rc #es-rc-content .es-footer{min-height:450px;background-position:top;margin-top:50px;padding-bottom:0}#es-rc #es-rc-content .es-footer__inner{margin-top:250px;max-width:100%}#es-rc #es-rc-content .es-footer__hashtag{font-size:32px}#es-rc #es-rc-content .es-footer__subtitle{padding-top:30px;max-width:90%;margin:0 auto}#es-rc #es-rc-content .es-style__inner{max-width:67%}#es-rc #es-rc-content .es-style__left{max-width:revert}#es-rc #es-rc-content .es-style__img{z-index:3;position:relative;min-width:100%;max-width:100%}#es-rc #es-rc-content .es-style__img-title{top:54%;left:56%;font-size:32px}#es-rc #es-rc-content .es-style__title-img{max-width:75%}#es-rc #es-rc-content .es-style__img-description span{font-size:30px}#es-rc #es-rc-content .es-style__wrapper{right:-42.5%}#es-rc #es-rc-content .es-style__img-title-group{margin-right:-12px}#es-rc #es-rc-content .es-style__img-description{margin-bottom:120px;margin-left:-5px;font-size:18px;max-width:375px}#es-rc #es-rc-content .es-colors{margin-top:-85px;padding-top:70px}#es-rc #es-rc-content .es-colors__title{font-size:29px}#es-rc #es-rc-content .es-design__new-wrapper{top:30%;left:8%}#es-rc #es-rc-content .es-design__new-title{font-size:28px}#es-rc #es-rc-content .es-design__new-description{max-width:420px}#es-rc #es-rc-content .es-steps__steps__item__text{font-size:18px}}